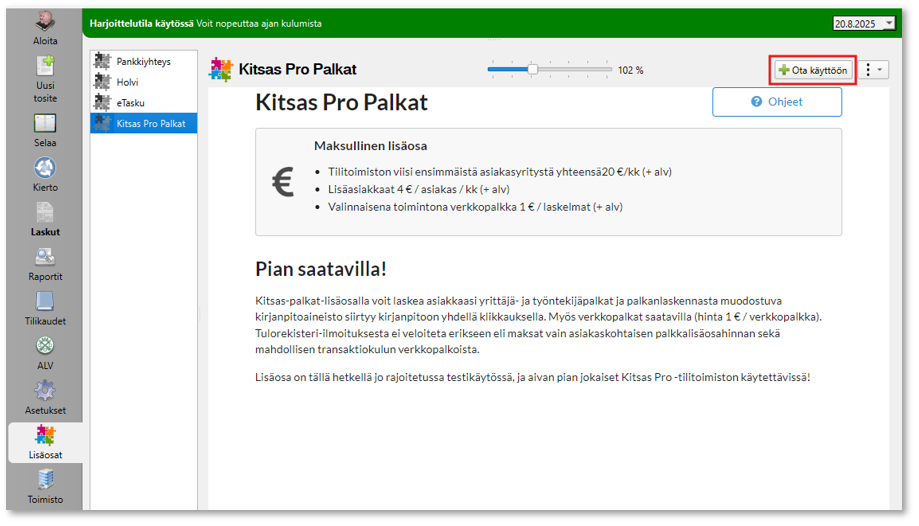
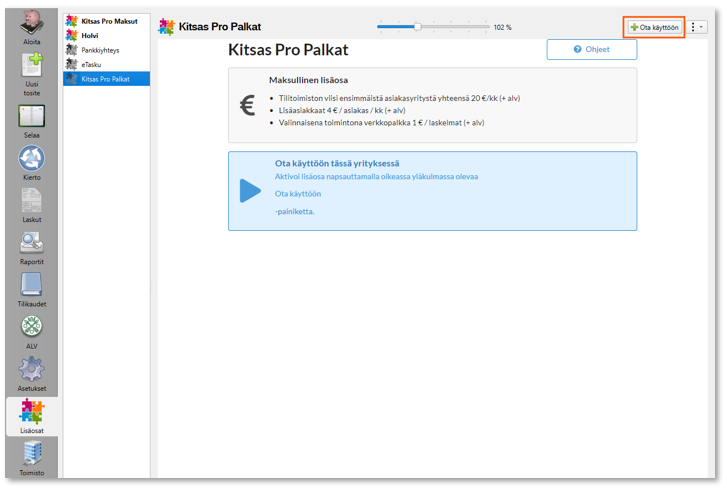
Palkanlaskennan ohjeiden päivitys

Changed region(s): [[0.0, 0.0, 0.9986, 1.0], [0.2724, 0.7055, 0.8776, 0.7362], [0.5144, 0.1227, 0.696, 0.1534]]

diff --git a/content/fi/docs/lisaosat/palkat/kayttoonotto.md b/content/fi/docs/lisaosat/palkat/kayttoonotto.md
@@ -28,6 +28,10 @@ Lisäosan poiskytkeminen ei päätä palkanlaskentapalvelun käyttöä. Asiakask
 
 Kun siirryt palkanlaskennan palvelun käyttöönottoon ensimmäistä kertaa, tulee palvelun käyttäjän allekirjoittaa Tilitoimistovaltakirja:
 
+![](/img/fi/lisaosa/palkat/aloitus2.png)
+
+* Paina asiakaskohtaisen lisäosan näkymästä painiketta **Tilitoimistovaltakirja**
+* Avautuneesta näkymästä, painetaan painiketta **Siirry asetuksiin**
 * Täydennä tiedot (Huom. Valtakirjan allekirjoittajalla tulee olla tilitoimiston nimenkirjoitusoikeus) 
 * Hyväksy käyttöehdot ja henkilötietojen käsittelyehdot (kertaluonteinen) 
 * Paina **Hyväksy** ja suorita vahva tunnistautuminen ja **allekirjoita tilitoimistovaltakirja**
@@ -45,9 +49,9 @@ Saat verottajalta turvasähköpostin, josta löytyvät **Siirtotunnus** ja **Ker
  
 ## Varmenteen asetus Kitsaaseen
 
-Pääset asettamaan siirtotunnuksen ja kertakäyttösalasanan kitsaaseen asiakaskohtaisen lisäosan alta, kohdasta **Tilitoimistovarmenne** ja täytä varmenteen tiedot varmenteen hallintanäkymässä.
+Pääset asettamaan siirtotunnuksen ja kertakäyttösalasanan kitsaaseen asiakaskohtaisen lisäosan alta, kohdasta **Tilitoimistovarmenne** → **Siirry asetuksiin**  ja täytä varmenteen tiedot varmenteen hallintanäkymässä.
 
-![](/img/fi/lisaosa/palkat/aloitus2.png)
+![](/img/fi/lisaosa/palkat/aloitus3.png)
 
 Tilitoimistovarmenteen voi asettaa käyttäjä, jolla on toimintokohtaiset oikeudet **Lisäosien asetukset** ja **Sertifikaattien hallinta**. Varmenteen hallintaan riittävät siis oikeudet, kun käyttäjälle on asetettu kirjanpito- tai tilitoimistotasolle roolit "kirjanpitäjä" ja "pääkäyttäjä".
 
@@ -59,11 +63,10 @@ Pääset laskemaan palkkoja kohdasta **Siirry laskemaan palkkoja**.
 
 Palkkatoimintoihin pääsy edellyttää, että käyttäjälle on asetettu kirjanpito- tai tilitoimistokohtainen rooli **Palkanlaskija**.
 
-![](/img/fi/lisaosa/palkat/aloitus3.png)
+![](/img/fi/lisaosa/palkat/aloitus4.png)
 
 ## Kirjanpidon tositteiden muodostaminen
 
 Palkanlaskennan kirjanpidon tositteet voi:
 * Noutaa manuaalisesti kohdasta **Palkkojen noutaminen kirjanpitoon**
 * Tai asettaa automaattisesti muodostumaan kuukauden 5. päivänä
-
